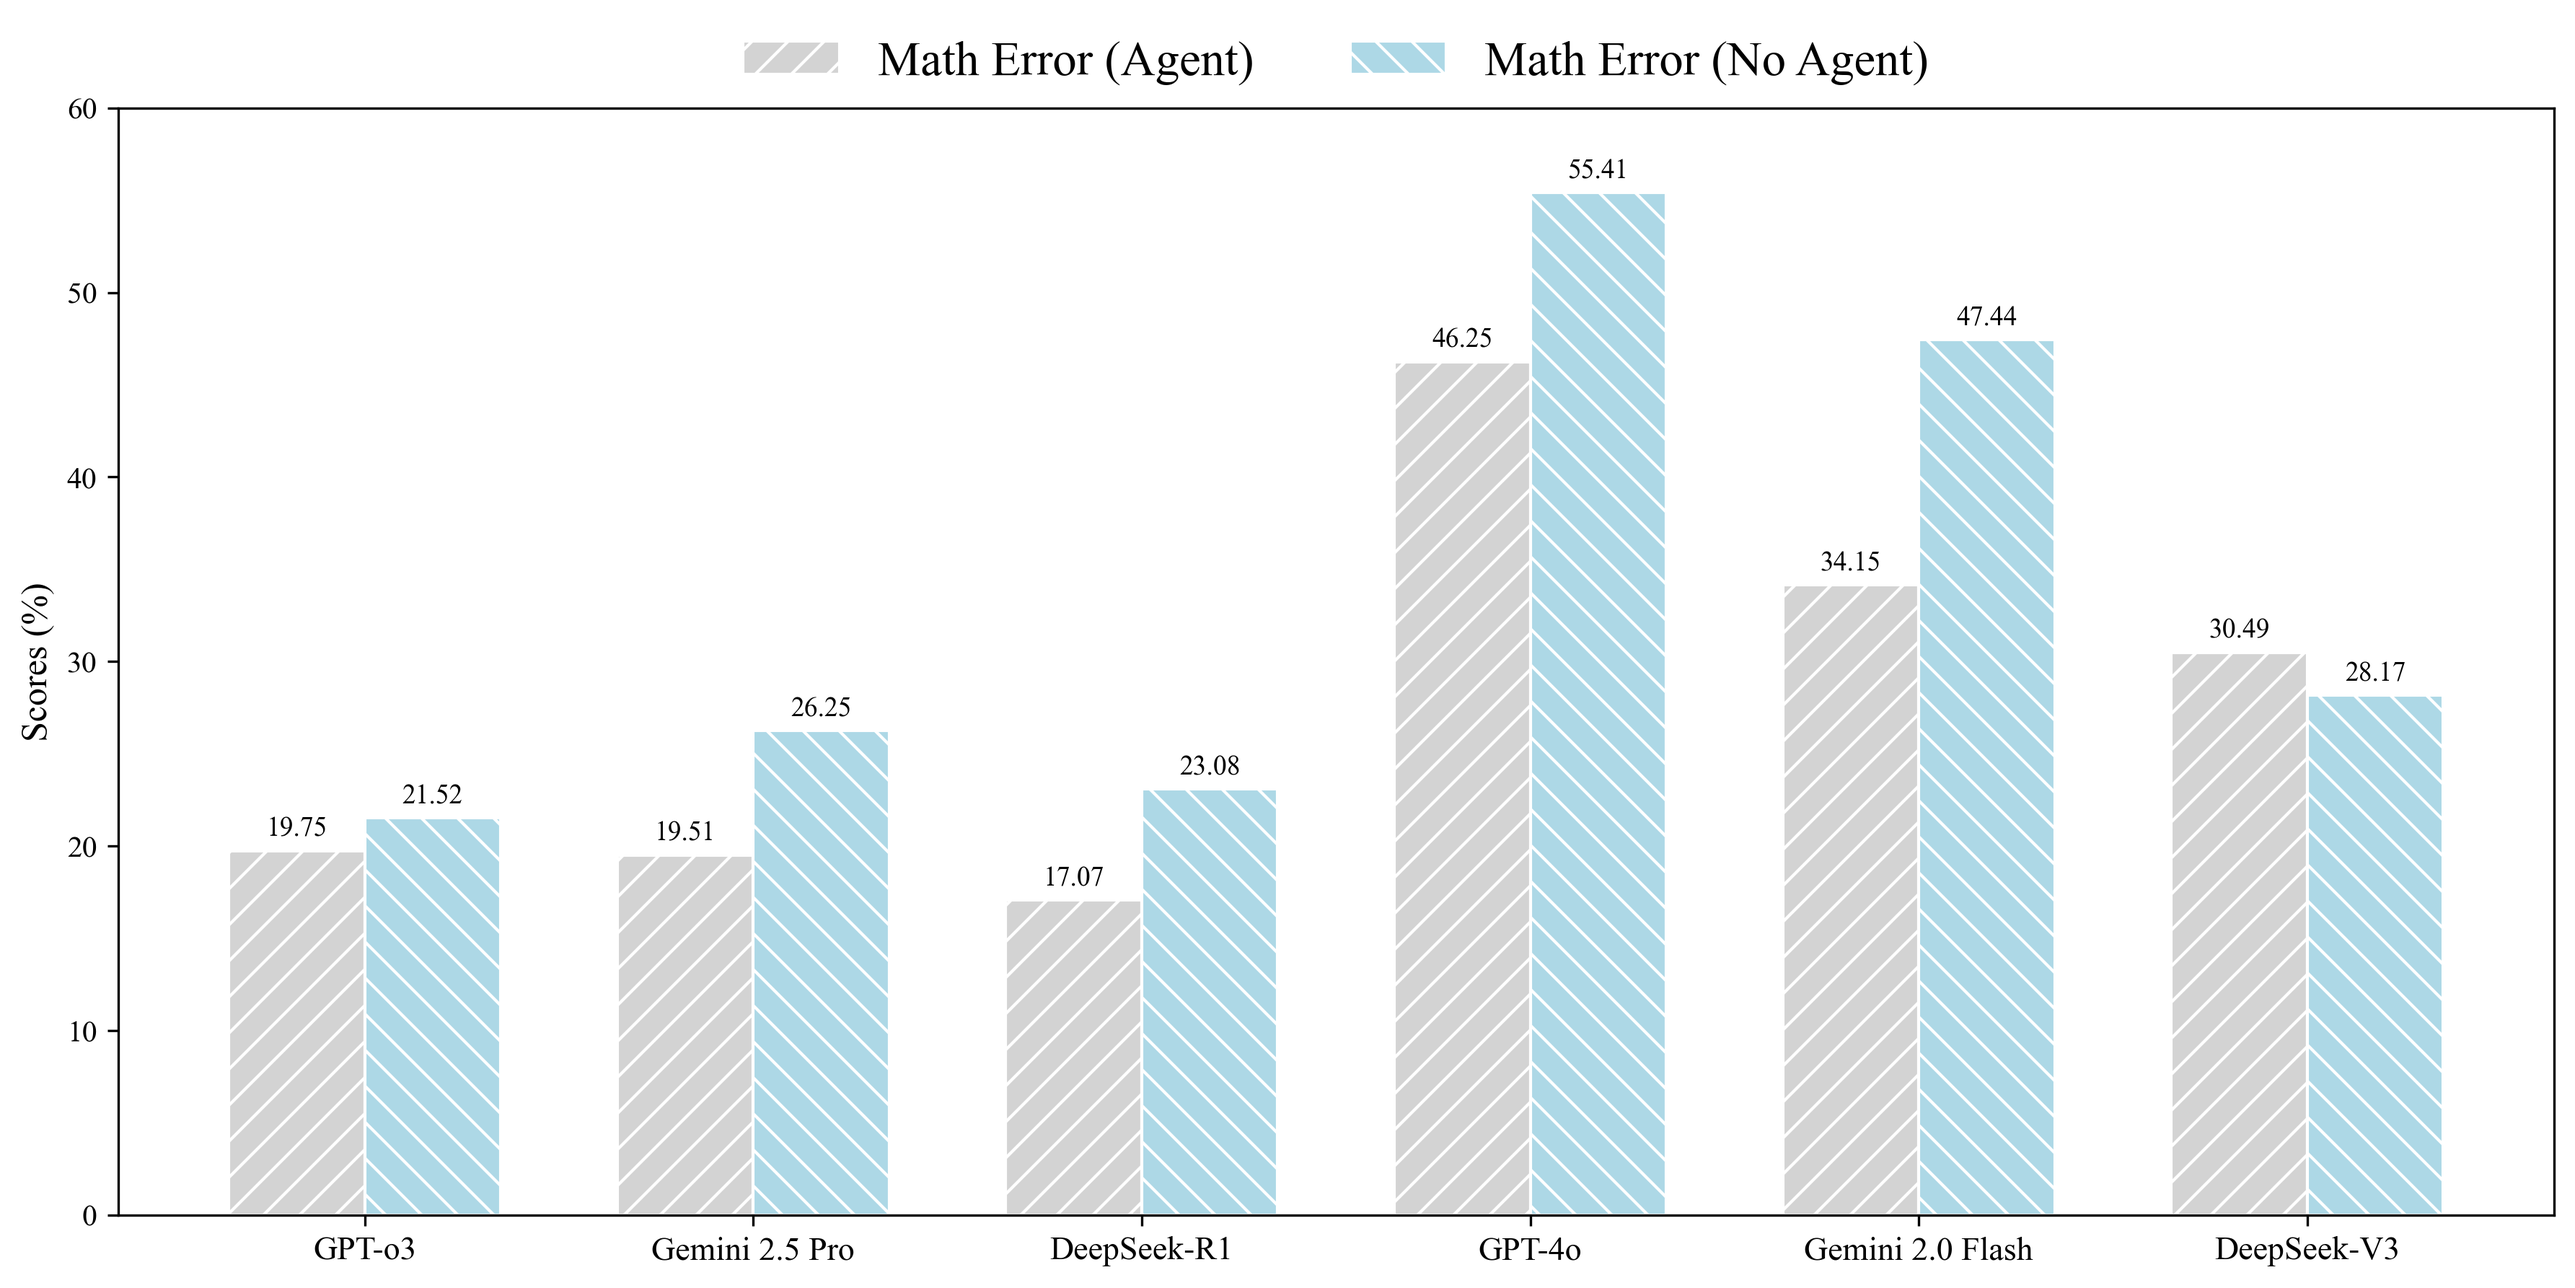
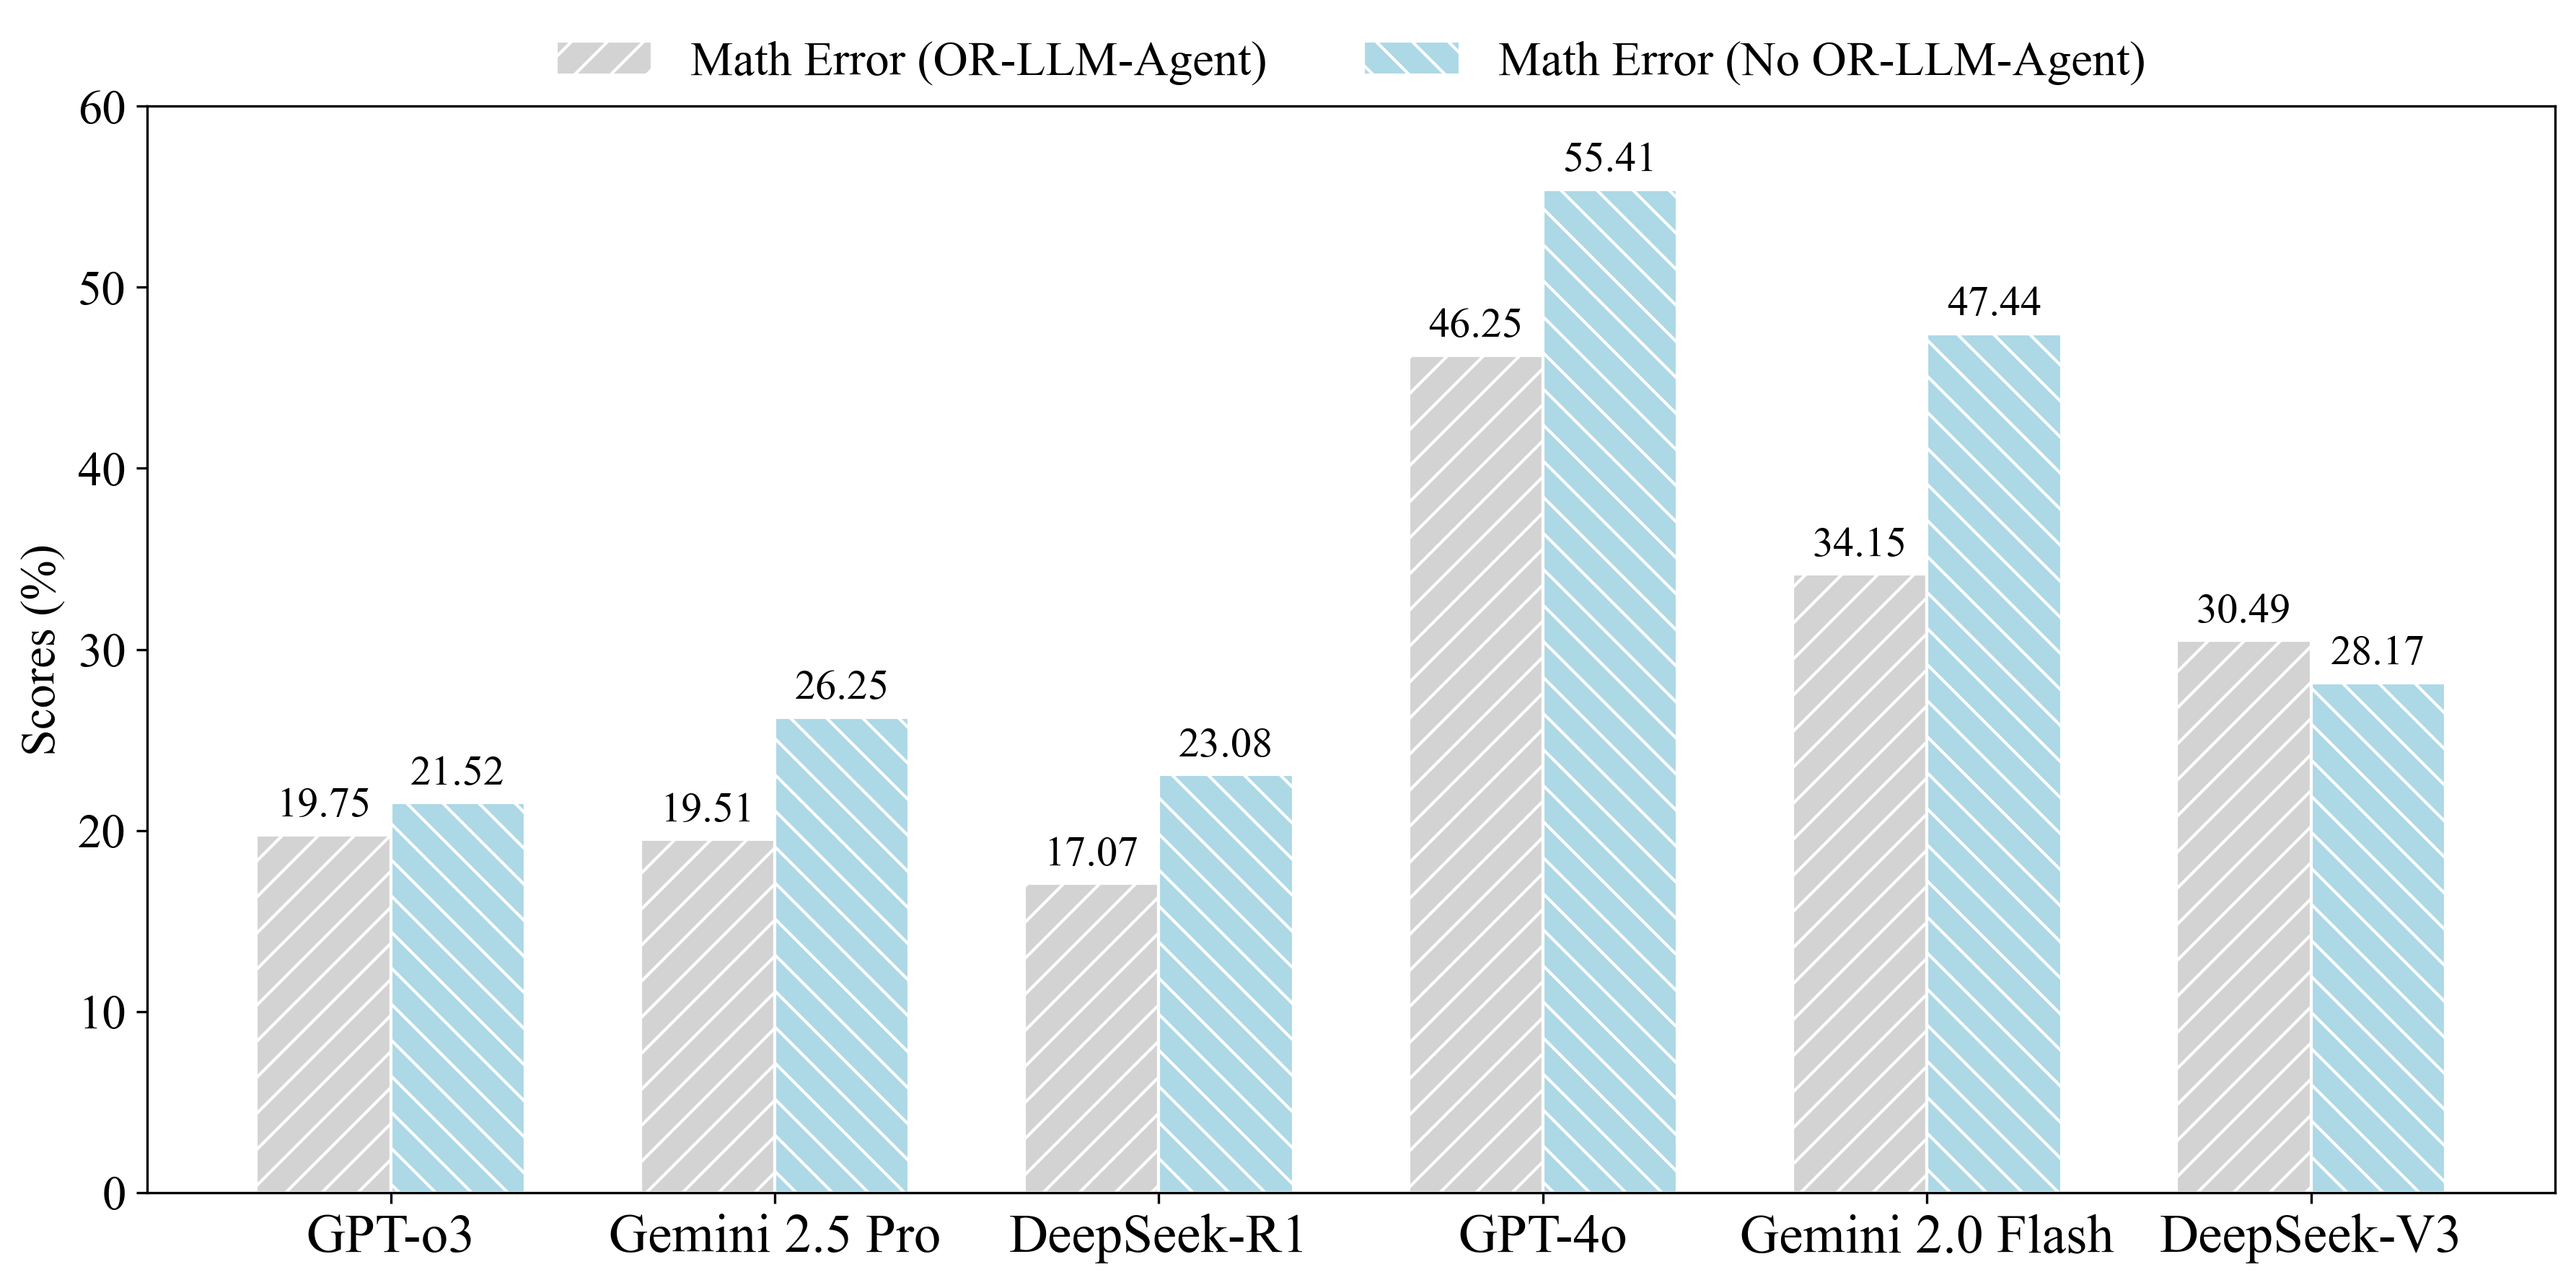
alter bar one

diff --git a/data/bar_math_error.py b/data/bar_math_error.py
@@ -17,11 +17,11 @@ plt.rcParams["font.family"] = "Times New Roman"
 fig, ax = plt.subplots(figsize=(12, 6))
 
 bars1 = ax.bar(x - width/2, math_error_agent, width,
-               label='Math Error (Agent)', hatch='//',
+               label='Math Error (OR-LLM-Agent)', hatch='//',
                color='lightgray', edgecolor='white')
 
 bars2 = ax.bar(x + width/2, math_error_no_agent, width,
-               label='Math Error (No Agent)', hatch='\\\\',
+               label='Math Error (No OR-LLM-Agent)', hatch='\\\\',
                color='lightblue', edgecolor='white')
 
 # 添加柱状图顶部数值标签
@@ -29,13 +29,15 @@ for bar in bars1 + bars2:
     height = bar.get_height()
     ax.annotate(f'{height:.2f}', xy=(bar.get_x() + bar.get_width() / 2, height),
                 xytext=(0, 3), textcoords="offset points",
-                ha='center', va='bottom', fontsize=9)
+                ha='center', va='bottom', fontsize=14)
 
 # 设置标签与图例
-ax.set_ylabel('Scores (%)', fontsize=12)
+ax.set_ylabel('Scores (%)', fontsize=16)
+ax.tick_params(axis='y', labelsize=16)
 ax.set_xticks(x)
-ax.set_xticklabels(models, fontsize=11)
+ax.set_xticklabels(models, fontsize=18)
 ax.set_ylim(0, 60)
+ax.grid(axis='y', linestyle='--', alpha=0.5)
 
 # 图例置顶
 ax.legend(loc='upper center', bbox_to_anchor=(0.5, 1.1),

diff --git a/data/bar_model_ablility.py b/data/bar_model_ablility.py
@@ -39,6 +39,8 @@ hatch_map = {
     "DeepSeek-R1": "*"
 }
 
+plt.rcParams["font.family"] = "Times New Roman"
+
 # 自定义图例句柄（大图标，保留花纹）
 legend_handles = [
     Patch(facecolor=color_map[model],
@@ -75,12 +77,13 @@ for i, model in enumerate(models):
                         xytext=(0, 3),
                         textcoords="offset points",
                         ha='center', va='bottom',
-                        fontsize=10)
+                        fontsize=14)
 
 # 设置坐标轴与网格
-ax.set_ylabel("Scores (%)", fontname='Times New Roman')
+ax.set_ylabel("Scores (%)", fontsize=16)
+ax.tick_params(axis='y', labelsize=16)
 ax.set_xticks(x)
-ax.set_xticklabels(datasets, fontname='Times New Roman')
+ax.set_xticklabels(datasets, fontsize=18)
 ax.set_ylim(0, 100)
 ax.grid(axis='y', linestyle='--', alpha=0.5)
 
@@ -91,7 +94,7 @@ ax.legend(
     bbox_to_anchor=(0.5, 1.16),
     ncol=4,
     frameon=False,
-    prop={'size': 14, 'family': 'Times New Roman'},
+    prop={'size': 16, 'family': 'Times New Roman'},
     handlelength=2.5,
     handleheight=1.5
 )

diff --git a/data/bar_model_compare.py b/data/bar_model_compare.py
@@ -50,17 +50,19 @@ for i, (model, color, hatch) in enumerate(zip(models, colors, hatches)):
             f'{height:.2f}',  # 保留两位小数
             ha='center',
             va='bottom' if height >= 0 else 'top',
-            fontsize=10
+            fontsize=14
         )
 
 # 图表美化
-ax.set_ylabel('Performance Difference (%)', fontsize=12)
+ax.set_ylabel('Performance Difference (%)', fontsize=16)
+ax.tick_params(axis='y', labelsize=16)
 ax.set_xticks(x + 1.5 * bar_width)
-ax.set_xticklabels(datasets, fontsize=12)
+ax.set_xticklabels(datasets, fontsize=18)
 ax.axhline(0, color='black', linewidth=0.8)
 ax.set_ylim(-25, 40)
-ax.legend(loc='upper center', bbox_to_anchor=(0.5, 1.12), ncol=4, fontsize=14, frameon=False)
-
+ax.grid(axis='y', linestyle='--', alpha=0.5)
+ax.legend(title="", loc="upper center", bbox_to_anchor=(0.5, 1.18),
+          ncol=2, fontsize=16, handlelength=2.5, columnspacing=1.5, frameon=False)
 plt.tight_layout()
 plt.savefig("data/images/bar_model_compare.png", dpi=300, bbox_inches='tight')
 plt.show()

diff --git a/data/bar_agent_mode.py b/data/bar_agent_mode.py
@@ -53,8 +53,10 @@ for i, method in enumerate(methods):
 # 设置坐标轴标签和刻度
 ax.set_ylabel("Scores (%)", fontsize=16)
 ax.set_xticks(x + bar_width * (len(methods) - 1) / 2)
-ax.set_xticklabels(models, rotation=15, fontsize=16)
+ax.set_xticklabels(models, rotation=15, fontsize=18)
+ax.tick_params(axis='y', labelsize=16)
 ax.set_ylim(0, 100)
+ax.grid(axis='y', linestyle='--', alpha=0.5)
 
 # 图例放在顶部，两行排列
 ax.legend(title="", loc="upper center", bbox_to_anchor=(0.5, 1.18),
